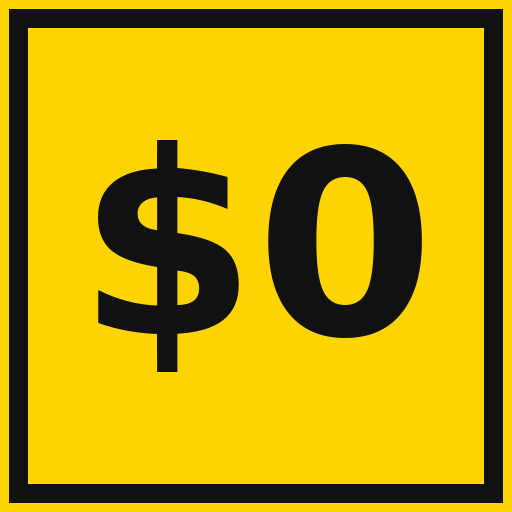
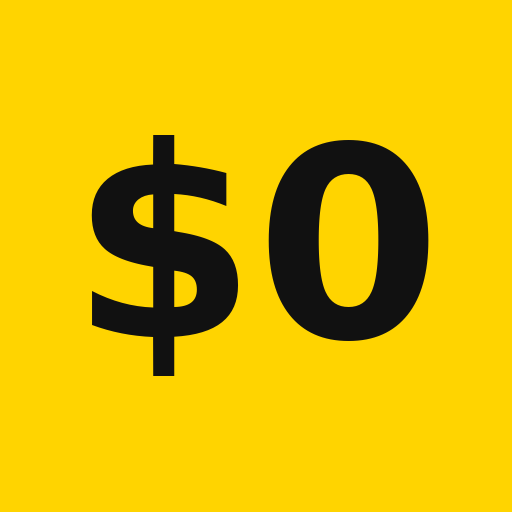
Add files via upload

diff --git a/index.html b/index.html
@@ -657,22 +657,41 @@ function runwayMo(){const b=burnMo();return b>0?P.funding/b:Infinity}
 function valuation(){return P.hype*buzzMult()*(B().valuationFactor||25)*(P.shipMult||1)}
 function stageName(){const v=valuation();const st=[[0,"Garage"],[100000,"Pre-seed"],[1000000,"Seed"],[50000000,"Series A"],[150000000,"Series B"],[400000000,"Series C"],[2000000000,"Scale-up"],[100000000000,"Pre-IPO"]];let n="Garage";st.forEach(x=>{if(v>=x[0])n=x[1]});return n}
 function hqName(){const v=valuation();const t=[[0,"Mom's garage"],[1e6,"A WeWork hot desk"],[1e7,"An office with a neon logo"],[1e8,"Two floors and a barista"],[5e8,"HQ tower (naming rights pending)"],[1e9,"A campus with a sculpture garden"]];let n=t[0][1];t.forEach(x=>{if(v>=x[0])n=x[1]});return n} // puhas flavor: kontor kasvab valuationiga
-// ===== SFX + HAPTICS — väike WebAudio "juice". META.muted lülitab välja (Details-sheetis). =====
+// ===== SFX v2 — pehme süntees (sine/triangle), rohkem hetki. META.muted lülitab välja (Financials-sheetis).
+// NB: iOS Safari EI vibreeri kunagi (API puudub) ja hääletu-režiimis on ka heli vait — Apple'i reegel.
+const SFX_OPT={post:true,month:false}; // sagedased mikro-helid: Siimu lülitada
 let _ac=null;
+function _tone(t0,f,d,o2){
+  const o=_ac.createOscillator(),g=_ac.createGain(),at=(o2&&o2.at)||0,gn=(o2&&o2.gain)||0.07;
+  o.type=(o2&&o2.type)||"sine";o.frequency.setValueAtTime(f,t0+at);
+  if(o2&&o2.slideTo)o.frequency.exponentialRampToValueAtTime(o2.slideTo,t0+at+d);
+  g.gain.setValueAtTime(0.0001,t0+at);
+  g.gain.exponentialRampToValueAtTime(gn,t0+at+0.012);
+  g.gain.exponentialRampToValueAtTime(0.0001,t0+at+d);
+  o.connect(g);g.connect(_ac.destination);o.start(t0+at);o.stop(t0+at+d+0.03);
+}
 function sfx(kind){
   if(META.muted)return;
   try{
     _ac=_ac||new (window.AudioContext||window.webkitAudioContext)();
-    const t=_ac.currentTime;
-    const tone=(f,d,at,type)=>{const o=_ac.createOscillator(),g=_ac.createGain();o.type=type||"square";o.frequency.value=f;g.gain.setValueAtTime(0.0001,t+at);g.gain.exponentialRampToValueAtTime(0.1,t+at+0.01);g.gain.exponentialRampToValueAtTime(0.0001,t+at+d);o.connect(g);g.connect(_ac.destination);o.start(t+at);o.stop(t+at+d+0.02);};
-    if(kind==="raise"){tone(880,0.09,0);tone(1320,0.16,0.08);}
-    else if(kind==="bad"){tone(150,0.22,0,"sawtooth");}
-    else if(kind==="pivot"){tone(440,0.07,0);tone(660,0.07,0.06);tone(990,0.1,0.12);}
-    else if(kind==="sale"){tone(1047,0.09,0);tone(1568,0.18,0.08);}
-    else if(kind==="win"){[523,659,784,1047].forEach((f,i)=>tone(f,0.15,i*0.11));}
-    else if(kind==="lose"){[392,330,262].forEach((f,i)=>tone(f,0.18,i*0.14,"triangle"));}
+    if(_ac.state==="suspended")_ac.resume();
+    const t=_ac.currentTime,T=(f,d,o)=>_tone(t,f,d,o);
+    if(kind==="raise"){T(784,0.10);T(1175,0.10,{at:0.07});T(1568,0.22,{at:0.14,gain:0.06});} // cha-ching kvindiga
+    else if(kind==="sale"){T(1047,0.09);T(1568,0.20,{at:0.08});T(2093,0.18,{at:0.16,gain:0.05});}
+    else if(kind==="pivot"){T(330,0.28,{slideTo:990,type:"triangle",gain:0.08});} // tõusev sweep
+    else if(kind==="bad"){T(220,0.16,{type:"triangle"});T(185,0.28,{at:0.10,type:"triangle",gain:0.08});}
+    else if(kind==="boss"){T(98,0.5,{type:"sawtooth",gain:0.05});T(104,0.5,{type:"sawtooth",gain:0.05});T(196,0.18,{at:0.5,type:"triangle",gain:0.07});} // madal sting
+    else if(kind==="dm"){T(880,0.07,{gain:0.06});T(1320,0.12,{at:0.09,gain:0.06});} // sõnumi-ping
+    else if(kind==="ding"){T(1568,0.30,{gain:0.06});}
+    else if(kind==="level"){T(523,0.10);T(659,0.10,{at:0.09});T(784,0.20,{at:0.18});}
+    else if(kind==="downround"){T(160,0.16,{type:"square",gain:0.05});T(160,0.16,{at:0.24,type:"square",gain:0.05});}
+    else if(kind==="nemesis"){T(440,0.5,{slideTo:160,type:"triangle",gain:0.07});}
+    else if(kind==="win"){[523,659,784,1047].forEach((f,i)=>T(f,0.14,{at:i*0.10}));T(1319,0.4,{at:0.42,gain:0.06});}
+    else if(kind==="lose"){[392,330,262].forEach((f,i)=>T(f,0.22,{at:i*0.16,type:"triangle"}));}
+    else if(kind==="post"){if(SFX_OPT.post)T(660,0.045,{gain:0.035});}
+    else if(kind==="month"){if(SFX_OPT.month)T(130,0.08,{type:"triangle",gain:0.05});}
   }catch(e){}
-  try{if(navigator.vibrate){const v={raise:30,bad:[60,40,60],pivot:20,sale:[30,30,30],win:[40,40,40,40,120],lose:120}[kind];if(v)navigator.vibrate(v);}}catch(e){}
+  try{if(navigator.vibrate){const v={raise:30,sale:[30,30,30],pivot:20,bad:[60,40,60],boss:[120,60,120],dm:[20,40,20],ding:25,level:[30,30,60],downround:[80,60,80],nemesis:150,win:[40,40,40,40,160],lose:160,post:8}[kind];if(v)navigator.vibrate(v);}}catch(e){}
 }
 const ROUNDS=["Pre-seed","Seed","Series A","Series B","Series C","Series D","Series E","Mega-round"];
 function roundName(){return ROUNDS[Math.min(P.round||0,ROUNDS.length-1)]}
@@ -727,7 +746,7 @@ function pickArchetype(){
   const unlocked=ARCHETYPES.filter(a=>(META.founderCred||0)>=a.cred);
   if(unlocked.length<=1){applyArchetype(ARCHETYPES[0]);return;}
   const locked=ARCHETYPES.filter(a=>(META.founderCred||0)<a.cred);
-  bossModal({header:"👤 New run",title:"Choose your founder",
+  bossModal({sfx:null,header:"👤 New run",title:"Choose your founder",
     body:"Who are you this time?"+(locked.length?(" Locked: "+locked.map(a=>a.name+" ("+a.cred+" cred)").join(", ")+"."):""),
     options:unlocked.map(a=>({label:a.name+" — "+a.fx,resolve:()=>applyArchetype(a)}))});
 }
@@ -842,6 +861,7 @@ function doPost(post){
   const h=(B().clickHype||1500)*(post.hype||1)*buzzMult()*credMult()*(P.pivotHypeMod||1)*(P.archPostMod||1);
   P.hype+=h;P.totalHype+=h;reanchorMomentum();
   if(h>(P.bestPostH||0)){P.bestPostH=h;P.bestPost=text;}
+  sfx("post");
   popText("+"+fmt(h)+" Hype","var(--accent2)");
   const rep=rng()<0.5?pick(FL().replies||[]):"";
   feedPush({text:text,sub:rep||null,h:h,label:"post"});
@@ -937,6 +957,7 @@ function nextMonth(){
   if(P.over){pvRender();return;}
   if(P.month>=(B().totalMonths||10)){endRun("lose");pvRender();return;}
   P.month++;P.ap=(B().apPerMonth||3)+(P.apBonus||0);P.pvThisMo=0;P.postsThisMo=0;P.sincePivot=(P.sincePivot==null?99:P.sincePivot)+1;
+  sfx("month");
   const hl=pick(FL().headlines);if(hl&&rng()<0.5)feedPush({text:"📰 "+hl.replace(/\{buzz\}/g,curBuzz().name),h:0,trust:0,label:"This month in tech"}); // 50% kuudest — timeline puhtam
   if(P.nemesis){ // rivaal kasvab omasoodu — umbes pooltes runides jõuab $1B-ni enne kuud 10
     P.nemesis.val*=(1.7+rng()*0.8);
@@ -944,7 +965,7 @@ function nextMonth(){
       P.nemesis.won=true;
       feedPush({text:"🦄 "+P.nemesis.name+" just hit a $1B valuation — before you. Their founder posted a thread thanking 'the haters'.",h:0,label:"rival"});
       toast("bad","Your rival is a unicorn",P.nemesis.name+" got there first.");
-      sfx("bad");
+      sfx("nemesis");
     } else if(!P.nemesis.won&&rng()<0.5){
       const ln=pick(NEMESIS_LINES);
       feedPush({text:ln.replace(/\{name\}/g,P.nemesis.name).replace(/\{val\}/g,"$"+fmt(P.nemesis.val)),h:0,label:"rival"});
@@ -1022,6 +1043,7 @@ function downRound(){
   const bridge=burnMo()*6+5000;
   P.funding=bridge;
   P.ownership=(P.ownership||100)*0.95; // down-round lahjendab founderit −5% (Siim 12.06)
+  sfx("downround");
   feedPush({text:"DOWN-ROUND — you ran out of cash. Emergency money came in at a 'revised' valuation: hype −"+Math.round(loss*100)+"%, your stake −5%, $"+fmt(bridge)+" wired in. Flat is the new up.",h:0,label:"crisis"});
   toast("bad","Down-round","Hype −"+Math.round(loss*100)+"% · your stake −5% · emergency cash in.");
 }
@@ -1041,13 +1063,14 @@ function checkWin(){
 }
 function millionaireMilestone(){
   P.milestoneM=true;
+  sfx("ding");
   const ln=pick(FL().millionaire);if(ln)feedPush({text:"🎉 "+ln,h:0,label:"milestone"});
   toast("good","Millionaire (lol)","$1M valuation. Revenue: still $0.");
 }
 function levelUp(){
   P.leveledUp=true;
   const ln=pick(FL().levelUp);if(ln)feedPush({text:"🏆 "+ln,h:0,label:"perk unlocked"});
-  bossModal({header:"📈 Milestone",title:"LEVEL UP — you crossed $100M",body:"You're officially 'a real company' now (allegedly). Pick a permanent perk for the rest of the run:",options:[
+  bossModal({sfx:"level",header:"📈 Milestone",title:"LEVEL UP — you crossed $100M",body:"You're officially 'a real company' now (allegedly). Pick a permanent perk for the rest of the run:",options:[
     {label:"+1 action point every month",resolve:()=>{P.apBonus=(P.apBonus||0)+1;P.ap=(P.ap||0)+1;toast("good","+1 AP","More leadership to show.");}},
     {label:"+25% to hype & valuation (hotter narrative)",resolve:()=>{P.buzzBonus=(P.buzzBonus||1)*1.25;toast("good","Hotter narrative","+25% multiplier.");}},
     {label:"Halve your monthly burn (efficiency)",resolve:()=>{P.burnMult=(P.burnMult||1)*0.5;toast("good","Leaner","Burn cut in half.");}}
@@ -1069,7 +1092,7 @@ function pocketMoney(){ // PÄRIS raha founderi taskus — paberi-valuation EI O
 function paperStake(){return (P.ownership||100)/100*valuation();}
 // ===== EXIT CHOICE — $1B hetkel valid, mis legendiks sa saad. Kõik kolm on võidud, epiloog erineb. =====
 function exitChoice(){
-  bossModal({header:"🦄 $1,000,000,000",title:"You're a unicorn. Pick your exit",
+  bossModal({sfx:"level",header:"🦄 $1,000,000,000",title:"You're a unicorn. Pick your exit",
     body:"The valuation is real (it isn't). The money is real (it's paper). Time to decide what kind of legend you become.",
     options:[
       {label:"IPO — ring the bell",resolve:()=>{P.exitType="ipo";P.epilogue="COFND opened at $42, 'priced for perfection'. It now trades at $17. You are still unfathomably rich. Retail is not.";endRun("win");}},
@@ -1094,6 +1117,7 @@ function endRun(result){
 }
 function offerBuyout(){
   const amt=valuation();
+  sfx("dm");
   modal("An acquirer wants to buy you","Now that you have real revenue, a buyer showed up. They'll acquire you for $"+fmt(amt)+" — a guaranteed exit. Or hold out for the $1B unicorn.","Hold out for unicorn","Take the buyout",
     ()=>{P.hype*=1.1;feedPush({text:"Turned down an acquisition offer. 'We're just getting started.'",h:0,label:"buyout"});toast("good","Held out","Bullish signal. +10% hype.");pvRender();},
     ()=>{
@@ -1110,6 +1134,7 @@ function bossModal(boss){
   if(!body){legacyBossModal(boss);return;} // safety: shell not mounted
   pvBoss=boss;pvSheet=boss.optional?"offer":"boss"; // "offer" = dismissable (hire DMs etc), "boss" = mandatory
   if(xb)xb.style.display=boss.optional?"":"none";
+  const sk=("sfx" in boss)?boss.sfx:(boss.optional?"dm":"boss");if(sk)sfx(sk); // sting bossile, ping DM-ile; boss.sfx üle-kirjutab (null = vaikne)
   ttl.textContent=boss.title||"Decision";
   let h="";
   if(boss.header)h+=`<div class="pv-bosskind">${(boss.header||"").replace(/</g,'&lt;')}</div>`;
